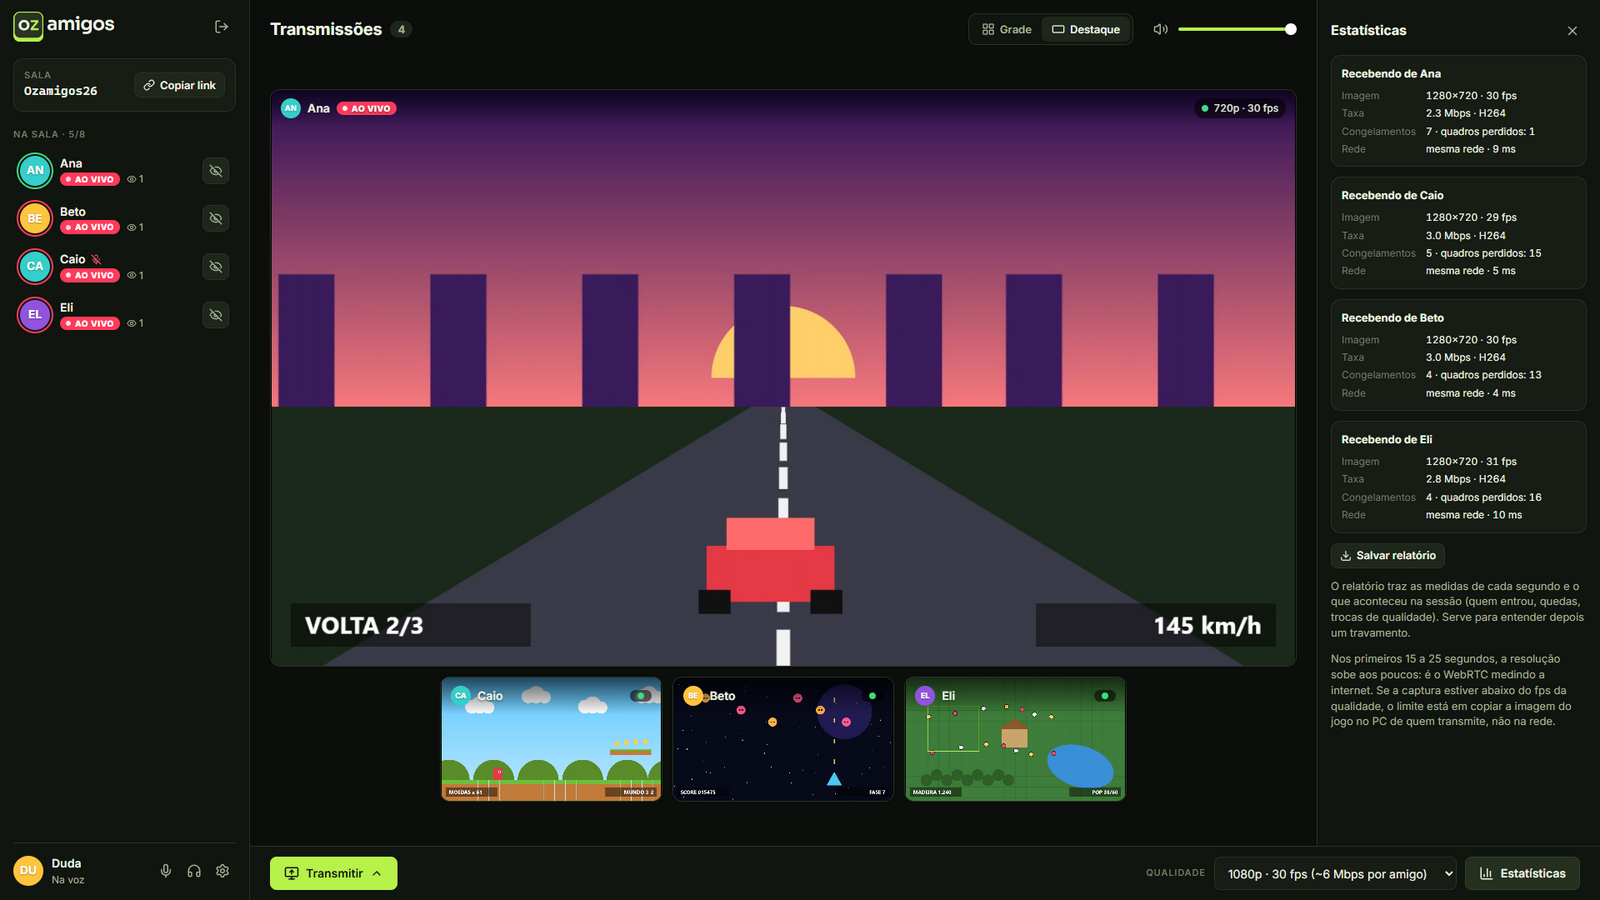
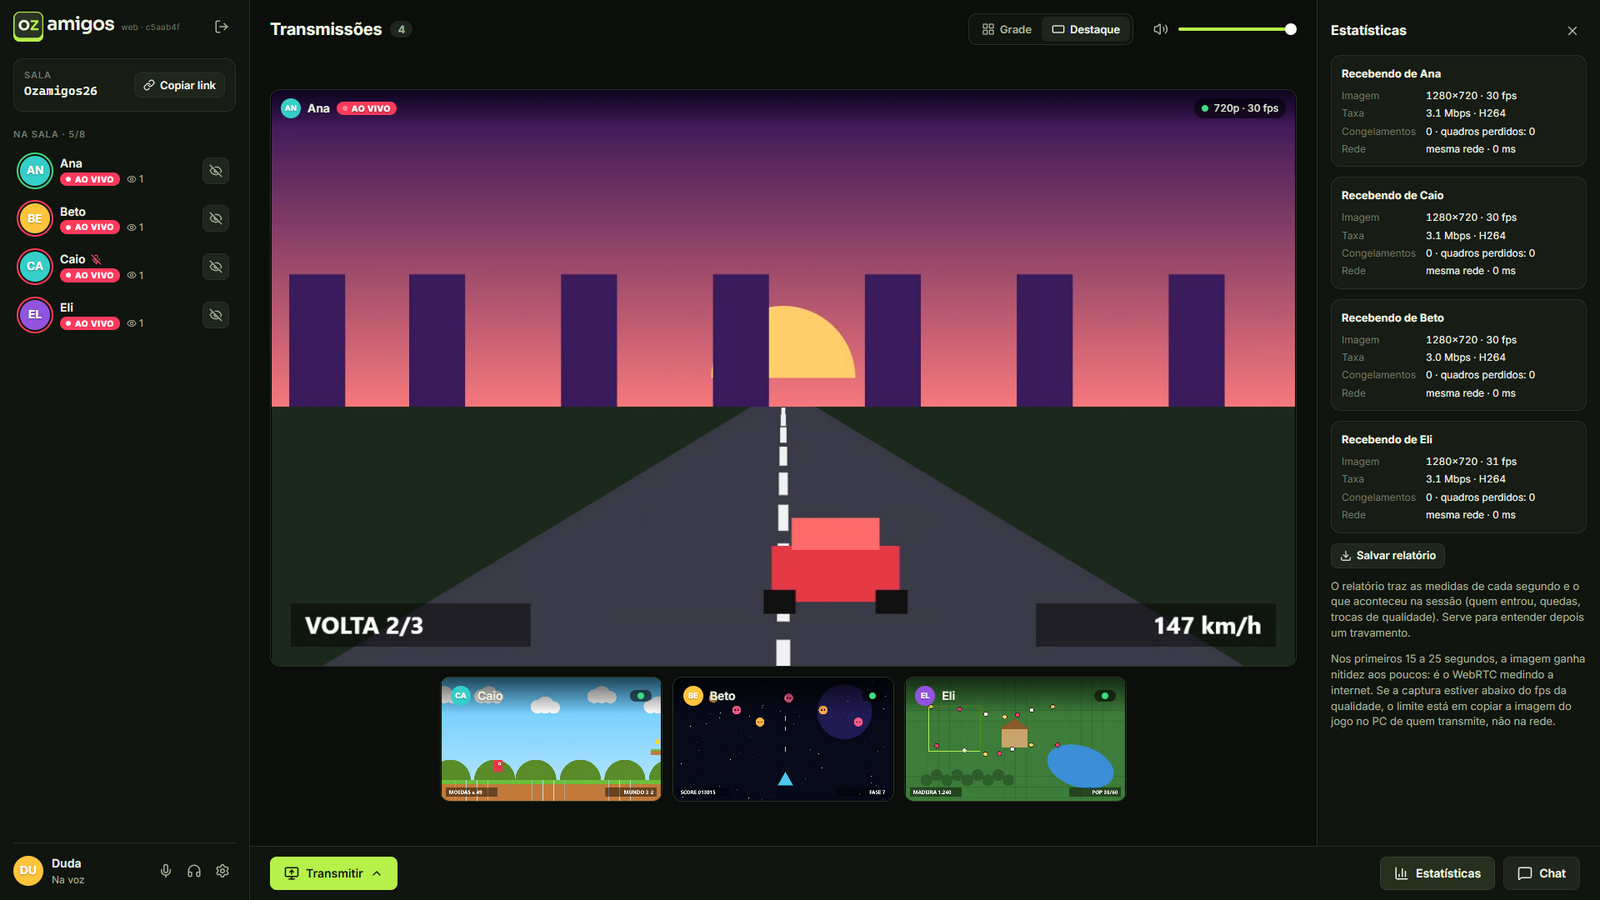
docs: README em dia e imagens refeitas com a interface atual
- As imagens ainda mostravam o seletor de qualidade (1080p), que saiu, e a
  engrenagem sem abas. O script da vitrine deixa de mexer no seletor e acha
  o botão Configurações pelo nome novo.
- README: a imagem perde nitidez em vez de diminuir; captura sem cair para
  ~21 fps e recuperação sozinha; o celular assiste e conversa pelo navegador;
  problema comum da captura presa em 21 fps; a pausa curta quando alguém
  começa a assistir como limitação conhecida; sem o menu Alt, que saiu.

diff --git a/docs/vitrine/captura.js b/docs/vitrine/captura.js
@@ -107,10 +107,6 @@ async function entrar(w, nome) {
 async function transmitir(w, estilo) {
   await js(w, `
     window.__prepararJogo(${JSON.stringify(estilo)});
-    // 720p a 30 fps: é o que as fotos mostram, e quatro codificações em 1080p num PC só engasgam a bancada.
-    const qualidade = document.querySelector('.controles select');
-    Object.getOwnPropertyDescriptor(HTMLSelectElement.prototype, 'value').set.call(qualidade, 'leve');
-    qualidade.dispatchEvent(new Event('change', { bubbles: true }));
     document.querySelector('.menu-transmitir > button').click();
     await new Promise((r) => setTimeout(r, 200));
     document.querySelectorAll('.menu button')[1].click();
@@ -301,7 +297,7 @@ app.whenReady().then(async () => {
     duda.setContentSize(2880, 1800);
     duda.webContents.setZoomFactor(2);
     await espera(500);
-    await js(duda, `document.querySelector('[aria-label="Configurações de voz e áudio"]').click();`);
+    await js(duda, `document.querySelector('[aria-label="Configurações"]').click();`);
     await espera(2500); // o medidor anda com o microfone falso
     const caixa = await js(duda, `const b = document.querySelector('dialog.configuracoes').getBoundingClientRect(); return { x: b.left, y: b.top, width: b.width, height: b.height };`);
     const voz = await duda.webContents.capturePage({ x: Math.round(caixa.x * 2), y: Math.round(caixa.y * 2), width: Math.round(caixa.width * 2), height: Math.round(caixa.height * 2) });

diff --git a/README.md b/README.md
@@ -97,7 +97,7 @@
 - **Layouts:** **Grade**, com tudo lado a lado, ou **Destaque**, com uma transmissão grande e as outras em miniatura (ao lado ou numa fileira embaixo, conforme o espaço). Dois cliques no vídeo abrem a tela cheia, e o botão **Janela flutuante** solta a transmissão numa janelinha que fica por cima do jogo.
 - **Áudio por transmissão:** volume e silenciar de cada uma, lembrados por amigo, mais um volume geral.
 - **Pouco atraso para quem assiste:** a folga contra soluços da rede se ajusta à conexão de cada um, de 80 a 250 ms.
-- **Sem escolher qualidade:** a transmissão sai sempre em 720p a 30 fps. Se o PC ou a internet apertarem, a imagem de quem não aguenta diminui sozinha em vez de travar, e quem está bem continua em 720p. Cada transmissão mostra um indicador de saúde (verde, amarelo ou vermelho), e o painel de **Estatísticas** mostra fps, resolução, taxa, codificador e o motivo de qualquer queda.
+- **Sem escolher qualidade:** a transmissão sai sempre em 720p a 30 fps. Se a internet ou o PC apertarem, a imagem de quem não aguenta perde um pouco de nitidez ou de fps por alguns segundos, sem travar e sem sair de 720p; quem está bem nem percebe. Cada transmissão mostra um indicador de saúde (verde, amarelo ou vermelho), e o painel de **Estatísticas** mostra fps, resolução, taxa, codificador e o motivo de qualquer queda.
 - **Avisos:** quando alguém entra ou começa a transmitir, aparece um aviso com o botão **Assistir**. Há sons curtos e notificação do Windows quando o app está atrás do jogo; na engrenagem (aba **Notificações**), dá para desligar os sons e escolher quais notificações aparecem: alguém entrou, começou a transmitir ou mandou mensagem no chat.
 - **Configurações em abas:** Voz e áudio, Notificações e Geral (a versão e o servidor).
 - **Volta automática:** se quem você assiste para e volta a transmitir, você volta a assistir sem clicar em nada.
@@ -109,7 +109,8 @@
 **Só no app para Windows**
 - **Seletor próprio** de janelas e telas, com miniaturas e ícones.
 - **Som do jogo sem eco:** a transmissão leva o som de todos os programas do PC, menos o do próprio **Ozamigos** (a voz dos amigos e as transmissões que você assiste) e o de apps de chamada de voz. Ninguém ouve a própria voz nem o próprio jogo de volta. O áudio vai em estéreo.
-- **Sem engasgos atrás do jogo:** a janela não é freada pelo Windows quando fica escondida.
+- **Sem engasgos atrás do jogo:** a janela não é freada pelo Windows quando fica escondida, e a captura não cai para ~21 fps quando outro programa fica entre o jogo e o Ozamigos (desde a 1.2.14).
+- **Se recupera sozinho:** se a página travar e cair, ela abre de novo; e a janela guardada num monitor que foi desligado volta para a tela.
 - **Atualização automática da interface:** o app carrega a interface do servidor, então cada deploy chega a todos sem reinstalar.
 - **O app se atualiza sozinho** (a partir da 1.2.0, na versão instalada): ao abrir, ele procura uma versão nova nas releases, baixa, instala e abre de novo. A versão portátil continua sendo atualizada à mão.
 
@@ -126,7 +127,7 @@
 
 **Sem instalar:** use o `Ozamigos-Portatil-x.y.z.exe`, que abre com dois cliques.
 
-**Pelo navegador:** abra o endereço do servidor no Chrome ou no Edge. A entrada tem um link para o [site](https://kayokalinauskas.github.io/ozamigos/), que apresenta e baixa o app para Windows. Pelo navegador dá para conversar, assistir e transmitir, mas a transmissão leva o som do PC inteiro, sem a separação que o app faz.
+**Pelo navegador:** abra o endereço do servidor no Chrome ou no Edge. A entrada tem um link para o [site](https://kayokalinauskas.github.io/ozamigos/), que apresenta e baixa o app para Windows. Pelo navegador dá para conversar, assistir e transmitir, mas a transmissão leva o som do PC inteiro, sem a separação que o app faz. **No celular**, pelo navegador, dá para assistir e conversar; transmitir, só do computador.
 
 **Requisitos:** Windows 10 (versão 2004 ou mais nova) ou Windows 11, 64 bits.
 
@@ -462,6 +463,7 @@ Exemplo: para 4 amigos, são cerca de 16 Mbps de upload; para 7 (a sala cheia), 
 | O que aparece | Significado | O que fazer |
 |---|---|---|
 | `Captura` abaixo de 30 fps | O jogo ocupa a placa de vídeo inteira | Limite o fps do jogo (60 é o ideal) e use "janela sem bordas" |
+| `Captura` presa em ~21 fps com a placa folgada | App anterior à 1.2.14 (o Windows tirava o relógio fino do app escondido) | Atualize o app: basta fechar pelo **Sair** da bandeja e abrir de novo |
 | `Limite: processador / placa de vídeo` | O codificador não dá conta | Fps do jogo limitado, driver atualizado |
 | `Limite: internet` / `Banda estimada` baixa | O upload não aguenta | Use cabo ou tenha menos gente assistindo |
 | Indicador vermelho só em quem assiste | A internet de quem assiste | Cabo ou Wi-Fi mais perto do roteador |
@@ -551,7 +553,7 @@ O workflow [CI](.github/workflows/ci.yml) roda as cinco camadas em cada push na 
 | Servidor não sobe: "Defina a senha do grupo…" | Falta `OZAMIGOS_SENHA` | Defina a variável (no Render, em **Environment**) |
 | `localhost:8080` dá 404 | Interface não montada | `cd web`, depois `npm install` e `npm run build` |
 | App diz "Não foi possível abrir…" | Endereço errado, sem internet ou Render acordando | Confira o endereço; espere 1 minuto e clique em **Conectar** |
-| App abre num endereço antigo | O endereço guardado tem prioridade sobre o do instalador | Ícone de servidor na sala, ou Alt → **Trocar o servidor** |
+| App abre num endereço antigo | O endereço guardado tem prioridade sobre o do instalador | Ícone de servidor na sala ou na tela de entrada |
 | Os amigos não me ouvem | Microfone sem permissão, desligado ou o errado | Veja o ícone no seu cartão; na engrenagem, escolha o microfone e use **Testar o microfone** |
 | O começo das palavras some | Sensibilidade manual alta demais | Ligue **Ajustar sozinho** ou arraste o limite para a esquerda |
 | Os amigos ouvem eco da própria voz | Caixa de som perto do microfone | Use fone, ou ligue o **Cancelamento de eco** na engrenagem |
@@ -573,6 +575,7 @@ O workflow [CI](.github/workflows/ci.yml) roda as cinco camadas em cada push na 
 - **Senha única por servidor:** pensada para grupos de amigos, cada grupo com o próprio deploy. Há um freio contra adivinhação (10 senhas erradas do mesmo endereço em 5 minutos), mas, para uso público, seria preciso senha por sala.
 - **Estado em memória:** as salas vivem num servidor só. Para mais de um servidor, seria preciso um armazenamento compartilhado (ex.: Redis).
 - **Exclusão de som por grupo de processos:** programas abertos *a partir* do Ozamigos ou de um app da lista `SEM_SOM_DE` também ficam de fora. Jogos abertos pela Steam, pela Epic ou pelo menu Iniciar não são afetados.
+- **Uma pausa curta quando alguém começa a assistir:** cada pessoa nova liga mais um codificador na placa de vídeo de quem transmite, e quem já assistia vê a imagem parar por ~¼ de segundo, uma vez (medido numa AMD RX 7800 XT). Evitar isso exigiria codificar uma vez só, num servidor de mídia.
 - **Programa que começa a tocar no meio:** o som dele entra na transmissão em até 2 segundos.
 - **Instalador sem assinatura digital:** o SmartScreen avisa na primeira execução.
 - **Atualização da versão portátil:** o app instalado se atualiza sozinho (desde a 1.2.0), mas a versão portátil exige baixar o arquivo novo.
